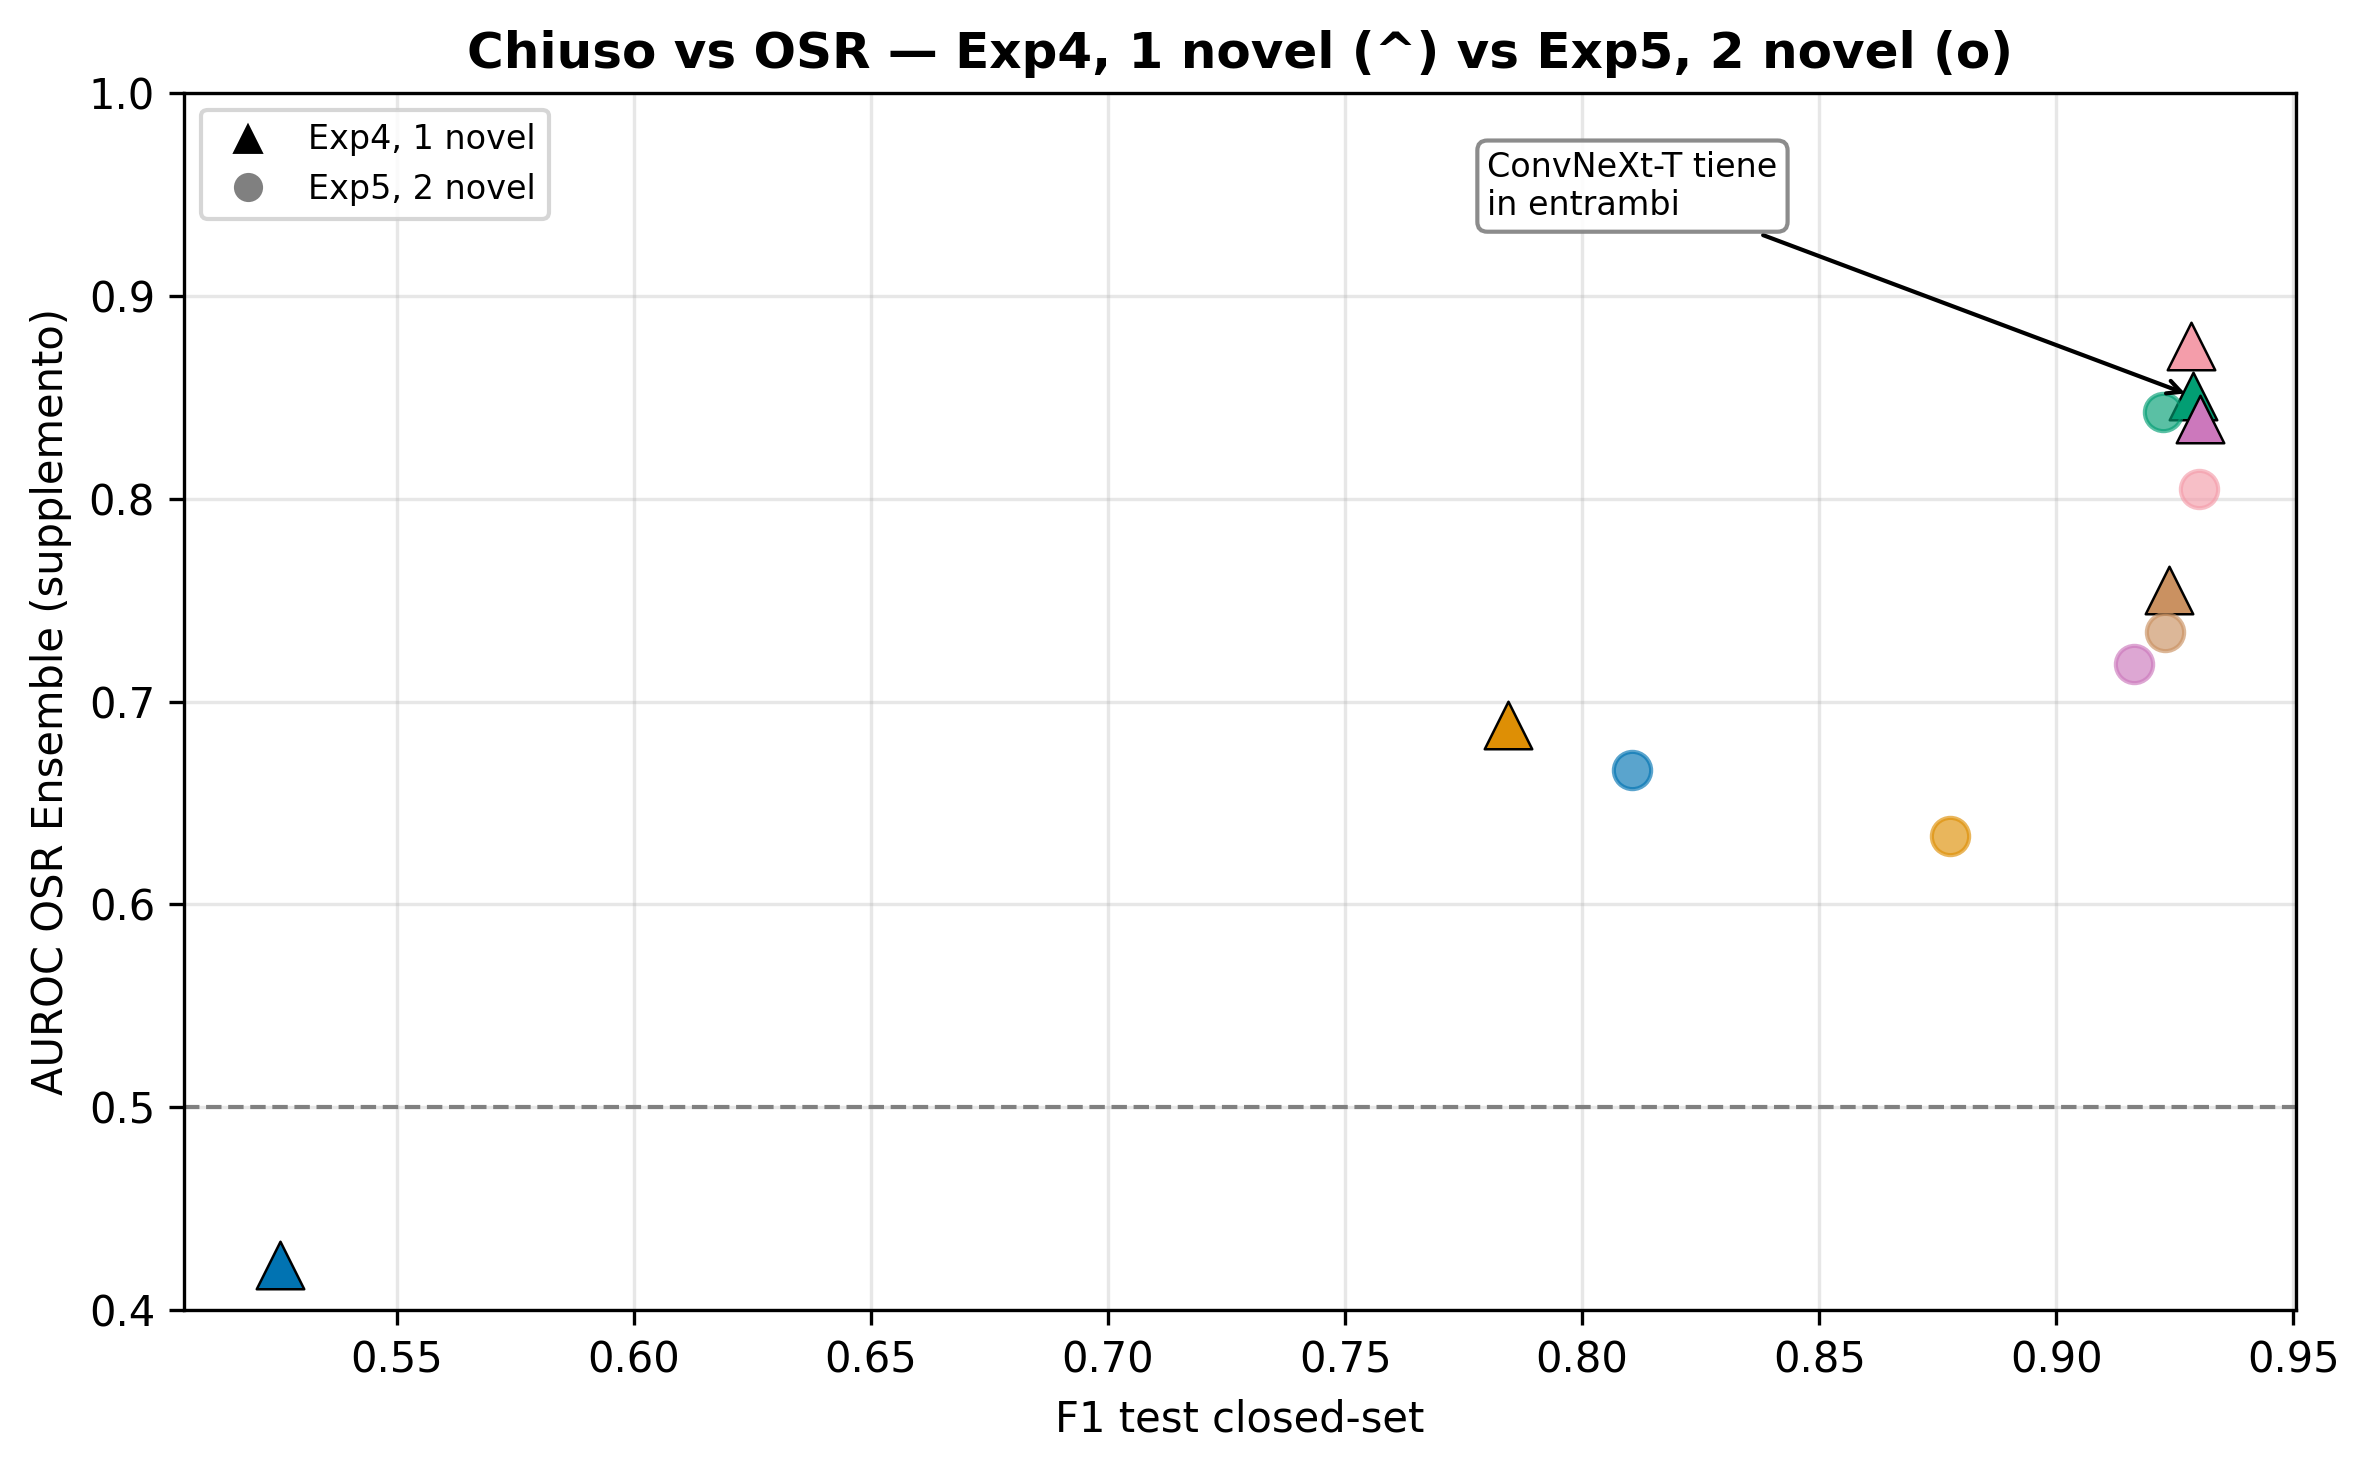
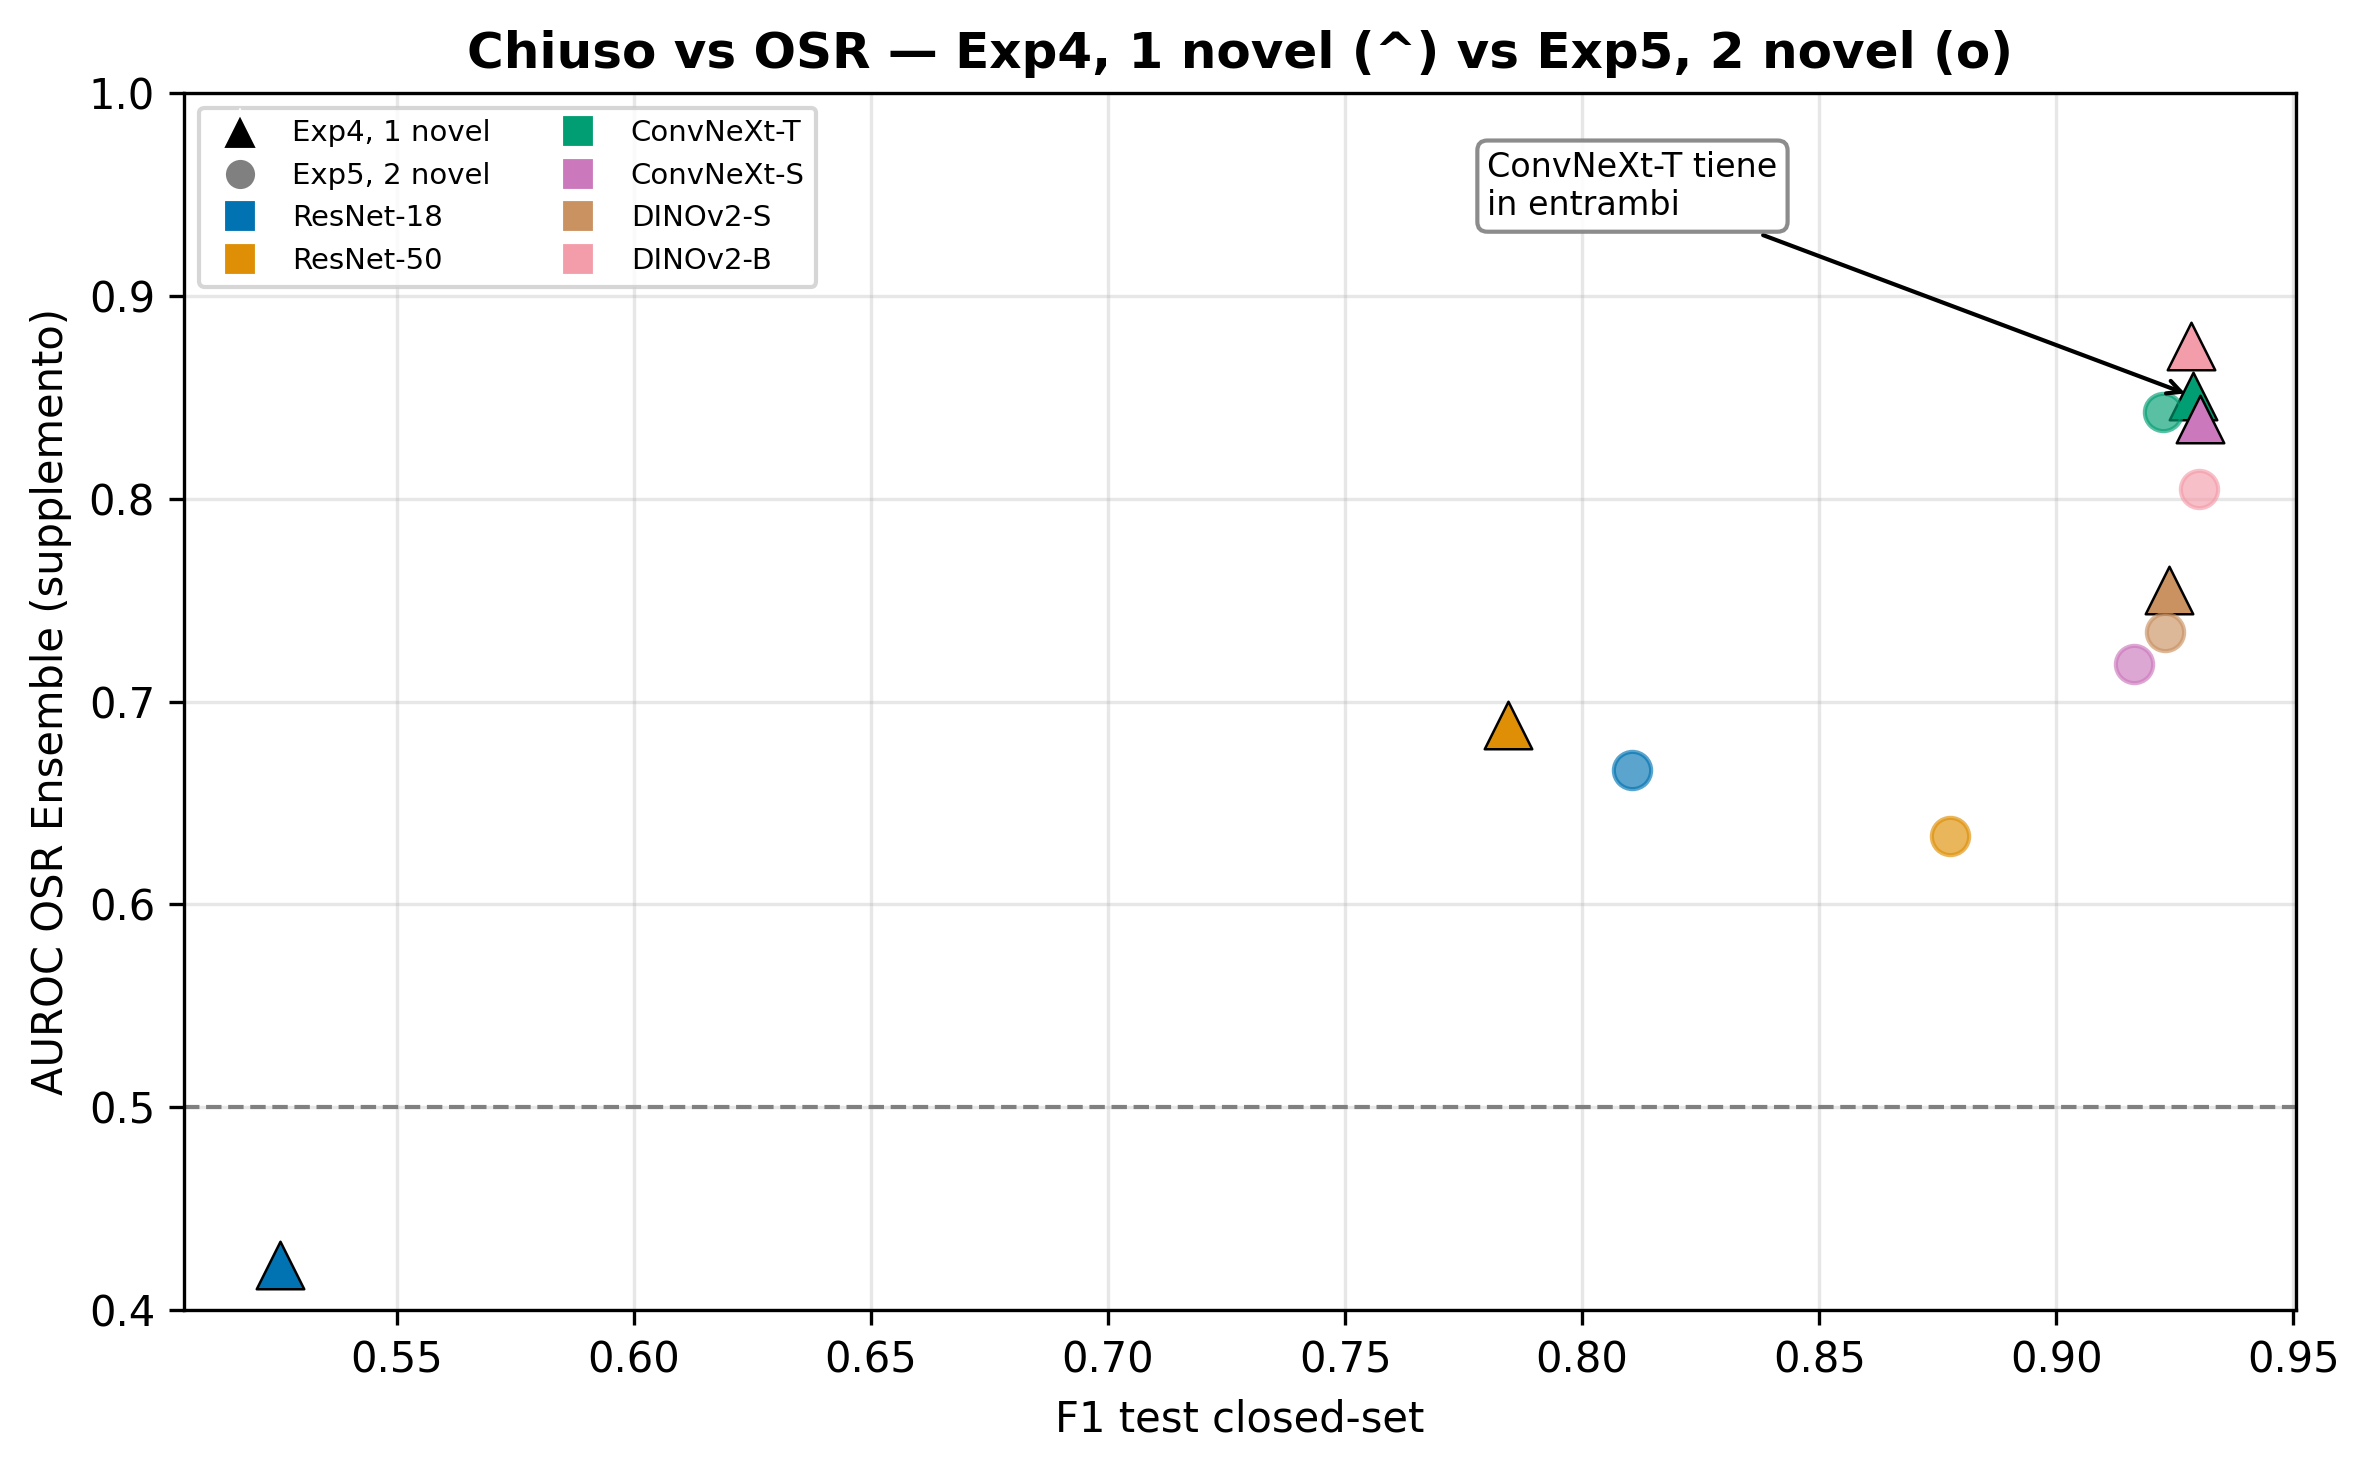
fix: legenda scatter per modello, xtick heatmap leggibili

Changed region(s): [[0.0937, 0.0612, 0.3436, 0.2143]]

diff --git a/backend/app/figures/closed.py b/backend/app/figures/closed.py
@@ -132,7 +132,7 @@ def build_closed(fig_dir: Path, exps: dict[int, Path]) -> list[Path]:
     plt.close(fig)
 
     # ── Benchmark heatmap: models × exps ──
-    fig2, ax2 = plt.subplots(figsize=(8, 4))
+    fig2, ax2 = plt.subplots(figsize=(9.5, 4.2))
     cmap = plt.cm.Blues.with_extremes(bad="#f0f0f0")
     # data_T for imshow: rows=models, cols=exps
     data_t = data.T  # (6,4)
@@ -148,7 +148,7 @@ def build_closed(fig_dir: Path, exps: dict[int, Path]) -> list[Path]:
                     txt += " ✕"
                 ax2.text(j, i, txt, ha="center", va="center", fontsize=7, color=c, fontweight="bold")
     ax2.set_xticks(range(len(EXP_LABELS)))
-    ax2.set_xticklabels(EXP_LABELS, fontsize=8)
+    ax2.set_xticklabels(EXP_LABELS, fontsize=7.5, rotation=30, ha="right")
     ax2.set_yticks(range(len(ARCHS)))
     ax2.set_yticklabels(ARCH_LABELS, fontsize=8)
     ax2.set_title("Heatmap benchmark: F1 test (medie 5 fold ± std)", fontsize=12, fontweight="bold")

diff --git a/backend/app/figures/osr.py b/backend/app/figures/osr.py
@@ -214,9 +214,14 @@ def _closed_vs_open(fig_dir: Path) -> list[Path]:
         [
             Line2D([0], [0], marker="^", color="w", markerfacecolor="black", markersize=9),
             Line2D([0], [0], marker="o", color="w", markerfacecolor="gray", markersize=8),
+        ]
+        + [
+            Line2D([0], [0], marker="s", color="w", markerfacecolor=PALETTE[i % len(PALETTE)], markersize=8)
+            for i in range(len(ARCHS))
         ],
-        ["Exp4, 1 novel", "Exp5, 2 novel"],
-        fontsize=8,
+        ["Exp4, 1 novel", "Exp5, 2 novel"] + list(ARCH_LABELS),
+        fontsize=7,
+        ncol=2,
     )
     ax.set_xlabel("F1 test closed-set")
     ax.set_ylabel("AUROC OSR Ensemble (supplemento)")
